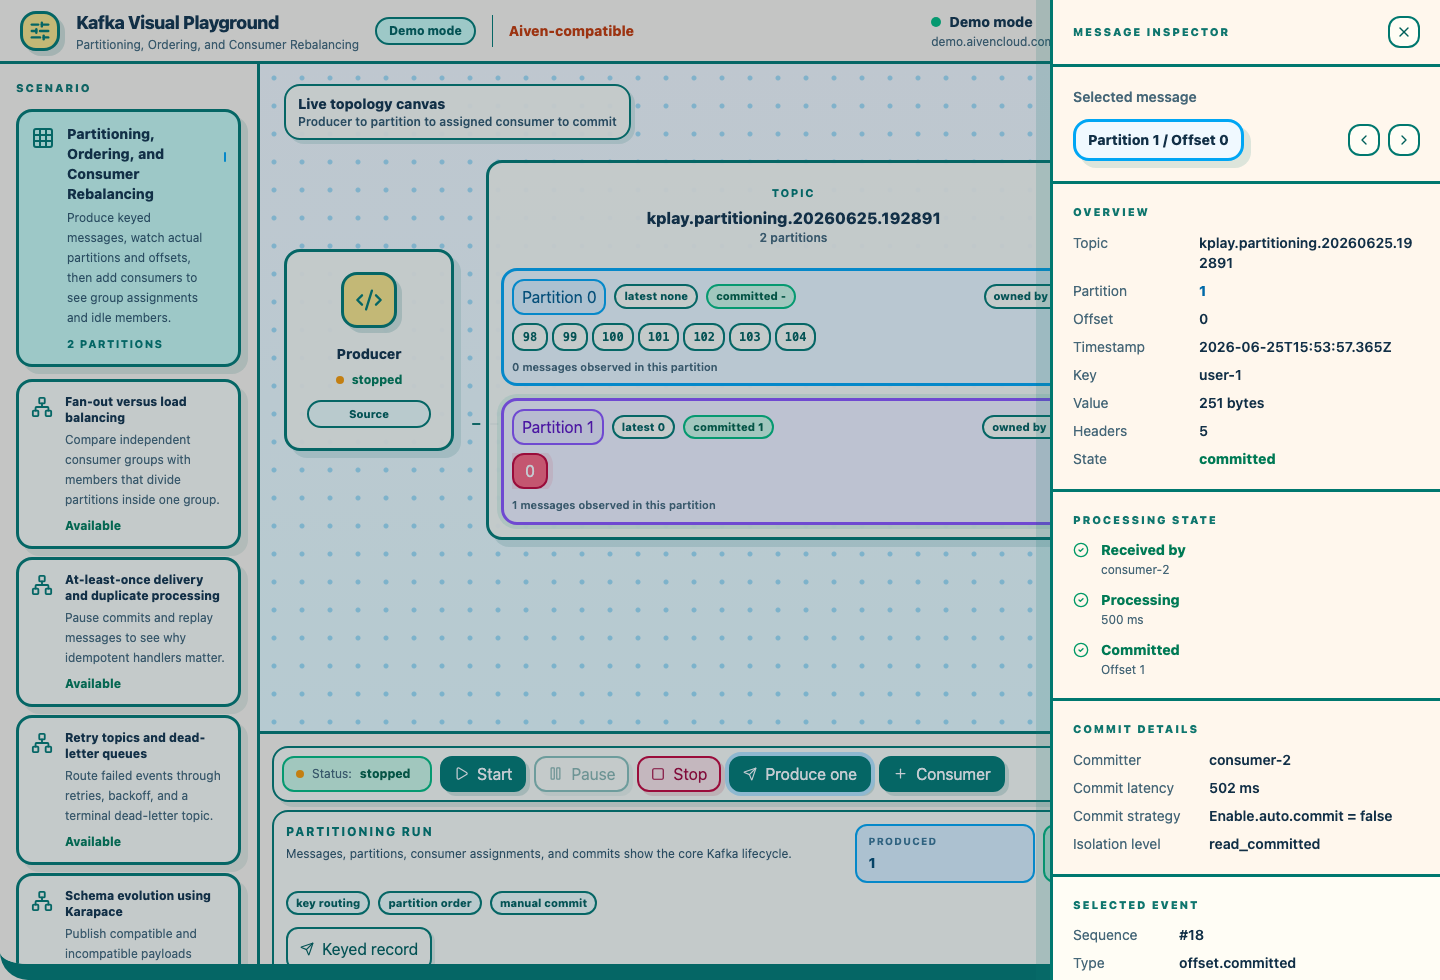
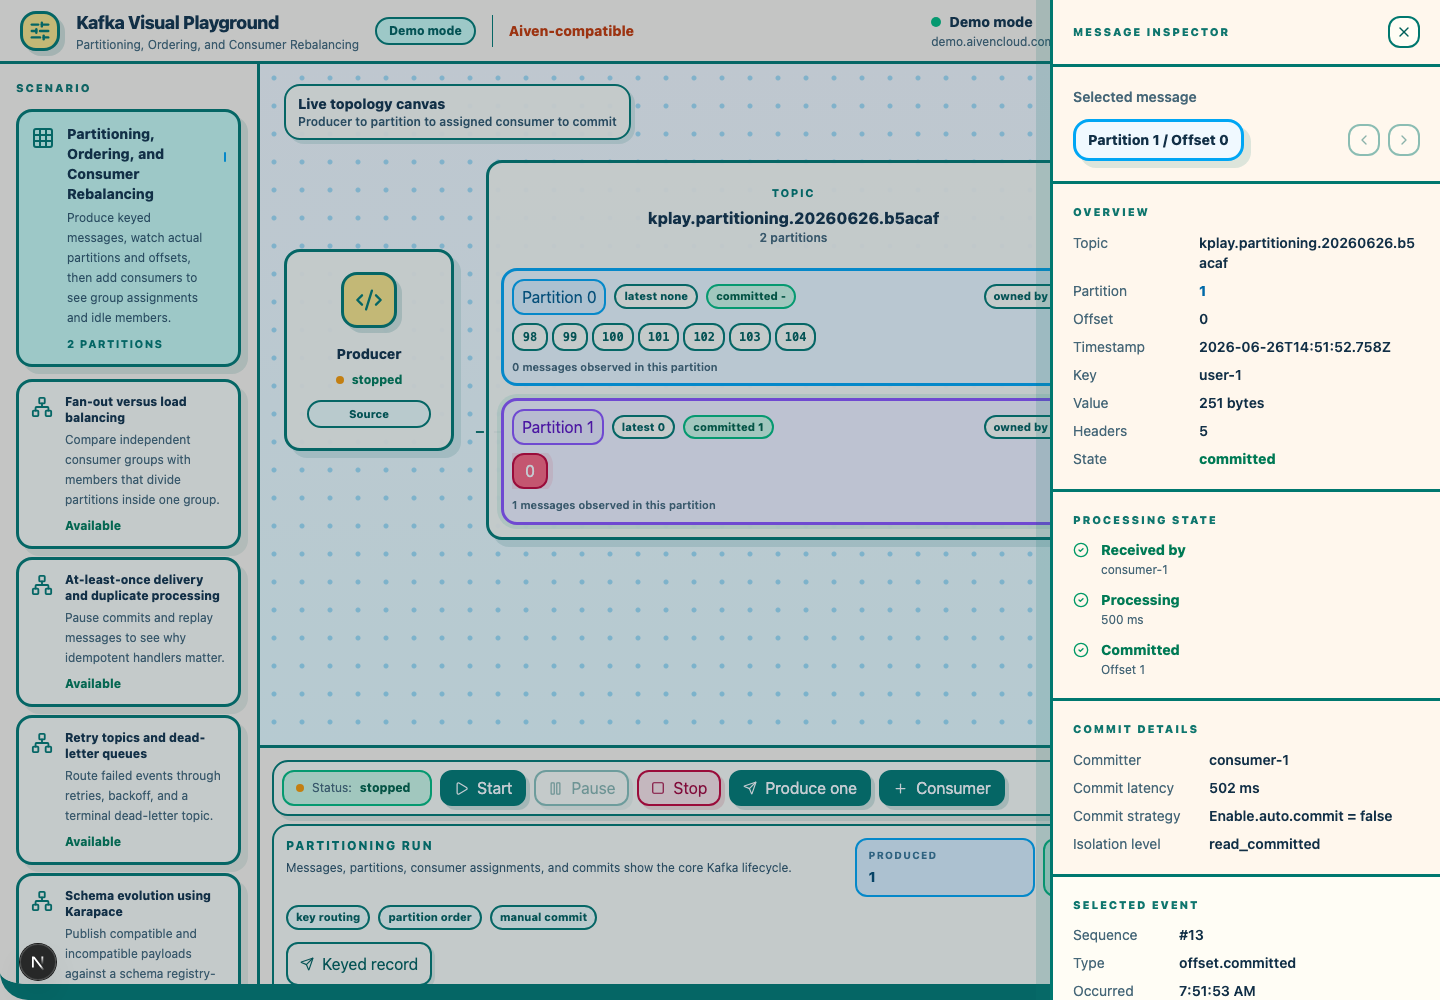
docs: refresh setup and API documentation

Changed region(s): [[0.0, 0.0, 1.0, 1.0], [0.1875, 0.2449, 0.3125, 0.4898]]

diff --git a/README.md b/README.md
@@ -55,7 +55,7 @@ Next.js serves both the UI and API, but Kafka clients are owned only by the cent
 
 ## Requirements
 
-- Node.js 22
+- Node.js 22 or newer
 - npm
 - Optional: Aiven for Apache Kafka service and `certs/ca.pem`
 
@@ -67,6 +67,8 @@ npm run dev:demo
 ```
 
 Open `http://localhost:3000` for the catalog or `http://localhost:3000/scenarios/partitioning` for the primary scenario.
+
+To customize local settings, copy `.env.example` to `.env.local` and edit the copy. Demo mode works without external Kafka credentials.
 
 ## Aiven Mode
 
@@ -85,6 +87,51 @@ KAFKA_TOPIC_PREFIX=kplay
 ```
 
 The browser never receives usernames, passwords, certificate contents, or raw Kafka configuration. The connection test returns only sanitized status, masked broker host, broker count, topic count when available, and sanitized errors.
+
+## Environment Variables
+
+| Variable                     | Default          | Purpose                                                                                                                 |
+| ---------------------------- | ---------------- | ----------------------------------------------------------------------------------------------------------------------- |
+| `KAFKA_MODE`                 | `demo`           | Selects deterministic demo mode or live `aiven` mode.                                                                   |
+| `AIVEN_KAFKA_BROKERS`        | empty            | Comma-separated Aiven broker host and port list. Required in Aiven mode.                                                |
+| `AIVEN_KAFKA_USERNAME`       | empty            | Aiven service user. Required in Aiven mode.                                                                             |
+| `AIVEN_KAFKA_PASSWORD`       | empty            | Aiven service password. Required in Aiven mode.                                                                         |
+| `AIVEN_KAFKA_SASL_MECHANISM` | `SCRAM-SHA-256`  | One of `PLAIN`, `SCRAM-SHA-256`, or `SCRAM-SHA-512`.                                                                    |
+| `AIVEN_KAFKA_CA_PATH`        | `./certs/ca.pem` | CA certificate path used by the Aiven adapter.                                                                          |
+| `KAFKA_TOPIC_PREFIX`         | `kplay`          | Prefix for run topics and consumer groups. Use lowercase letters, numbers, dots, dashes, or underscores; max length 32. |
+| `MAX_CONSUMERS_PER_RUN`      | `3`              | Caps active consumers per run. Values above 3 are rejected.                                                             |
+| `MAX_PRODUCE_RATE`           | `10`             | Caps producer rate per run. Values above 10 are rejected.                                                               |
+| `EVENT_HISTORY_LIMIT`        | `2000`           | Max server-side SSE/runtime event history. Values above 5000 are rejected.                                              |
+| `TIMELINE_DISPLAY_LIMIT`     | `1000`           | Max events included in run snapshots for the timeline. Values above 2000 are rejected.                                  |
+| `LOG_MESSAGE_PAYLOADS`       | `false`          | Enables message payload logging when explicitly set.                                                                    |
+| `LOG_LEVEL`                  | `info`           | Pino logger level for server logs.                                                                                      |
+| `PORT`                       | `3000`           | Port used by Next.js commands.                                                                                          |
+| `RUN_AIVEN_E2E`              | `false`          | Enables the optional live Aiven smoke test when set to `true`.                                                          |
+
+## API Surface
+
+The UI uses the versioned `/api/v1` routes directly:
+
+| Method   | Route                                             | Behavior                                                                                                     |
+| -------- | ------------------------------------------------- | ------------------------------------------------------------------------------------------------------------ |
+| `GET`    | `/api/v1/health`                                  | Returns process health.                                                                                      |
+| `GET`    | `/api/v1/scenarios`                               | Returns the scenario catalog.                                                                                |
+| `GET`    | `/api/v1/connection`                              | Returns sanitized Kafka connection status.                                                                   |
+| `POST`   | `/api/v1/connection/test`                         | Re-runs the sanitized connection check.                                                                      |
+| `GET`    | `/api/v1/runs`                                    | Returns the active run snapshot or `null`.                                                                   |
+| `POST`   | `/api/v1/runs`                                    | Creates a run for `{ "scenarioId": "partitioning" }`; only one active run is supported.                      |
+| `GET`    | `/api/v1/runs/:runId`                             | Returns a run snapshot.                                                                                      |
+| `DELETE` | `/api/v1/runs/:runId`                             | Deletes a run and requests resource cleanup.                                                                 |
+| `GET`    | `/api/v1/runs/:runId/events`                      | Opens the SSE stream for snapshots, live events, heartbeats, and bounded-history replay via `Last-Event-ID`. |
+| `PATCH`  | `/api/v1/runs/:runId/settings`                    | Updates `productionRate`, `keyStrategy`, or `processingLatencyMs`.                                           |
+| `POST`   | `/api/v1/runs/:runId/messages`                    | Produces one message, optionally with an override `keyStrategy`.                                             |
+| `POST`   | `/api/v1/runs/:runId/producer/start`              | Starts scheduled production.                                                                                 |
+| `POST`   | `/api/v1/runs/:runId/producer/pause`              | Pauses scheduled production.                                                                                 |
+| `POST`   | `/api/v1/runs/:runId/producer/stop`               | Stops scheduled production.                                                                                  |
+| `POST`   | `/api/v1/runs/:runId/consumers`                   | Adds one consumer to the run.                                                                                |
+| `DELETE` | `/api/v1/runs/:runId/consumers/:consumerId`       | Removes a consumer.                                                                                          |
+| `POST`   | `/api/v1/runs/:runId/consumers/:consumerId/crash` | Simulates a consumer crash.                                                                                  |
+| `POST`   | `/api/v1/runs/:runId/reset`                       | Stops producers, disconnects consumers, closes SSE subscribers, and requests resource cleanup.               |
 
 ## Resource Naming
 
@@ -110,7 +157,11 @@ npm run kafka:cleanup -- --dry-run
 npm run kafka:cleanup -- --confirm
 ```
 
-The CLI only targets topics that start with the configured prefix and refuses to delete anything outside that prefix.
+The CLI only targets topics that start with the configured prefix and refuses to delete anything outside that prefix. In demo mode it exits without deleting anything. In Aiven mode, load `.env.local` or export the Aiven variables first:
+
+```bash
+set -a; source .env.local; set +a; npm run kafka:cleanup -- --dry-run
+```
 
 ## Commands
 

diff --git a/docs/architecture.md b/docs/architecture.md
@@ -28,6 +28,31 @@ Both modes return the same contracts. The frontend never switches contracts base
 
 The SSE endpoint sends an initial snapshot, then live events with the event sequence as the SSE ID. `Last-Event-ID` replays missed bounded-history events. Heartbeats keep the connection alive, and abort cleanup removes the subscriber.
 
+## API Surface
+
+The browser talks directly to versioned Next.js Route Handlers under `/api/v1`:
+
+- `GET /api/v1/health`
+- `GET /api/v1/scenarios`
+- `GET /api/v1/connection`
+- `POST /api/v1/connection/test`
+- `GET /api/v1/runs`
+- `POST /api/v1/runs`
+- `GET /api/v1/runs/:runId`
+- `DELETE /api/v1/runs/:runId`
+- `GET /api/v1/runs/:runId/events`
+- `PATCH /api/v1/runs/:runId/settings`
+- `POST /api/v1/runs/:runId/messages`
+- `POST /api/v1/runs/:runId/producer/start`
+- `POST /api/v1/runs/:runId/producer/pause`
+- `POST /api/v1/runs/:runId/producer/stop`
+- `POST /api/v1/runs/:runId/consumers`
+- `DELETE /api/v1/runs/:runId/consumers/:consumerId`
+- `POST /api/v1/runs/:runId/consumers/:consumerId/crash`
+- `POST /api/v1/runs/:runId/reset`
+
+Route Handlers validate request bodies with schemas from `packages/contracts`, return sanitized problem details for errors, and delegate run state changes to `PlaygroundRuntime`.
+
 ## UI Authority
 
 The server is authoritative for run lifecycle, resources, assignments, delivery reports, processing state, and commits. The browser is authoritative only for selection, filters, panel state, theme, and transient animation.